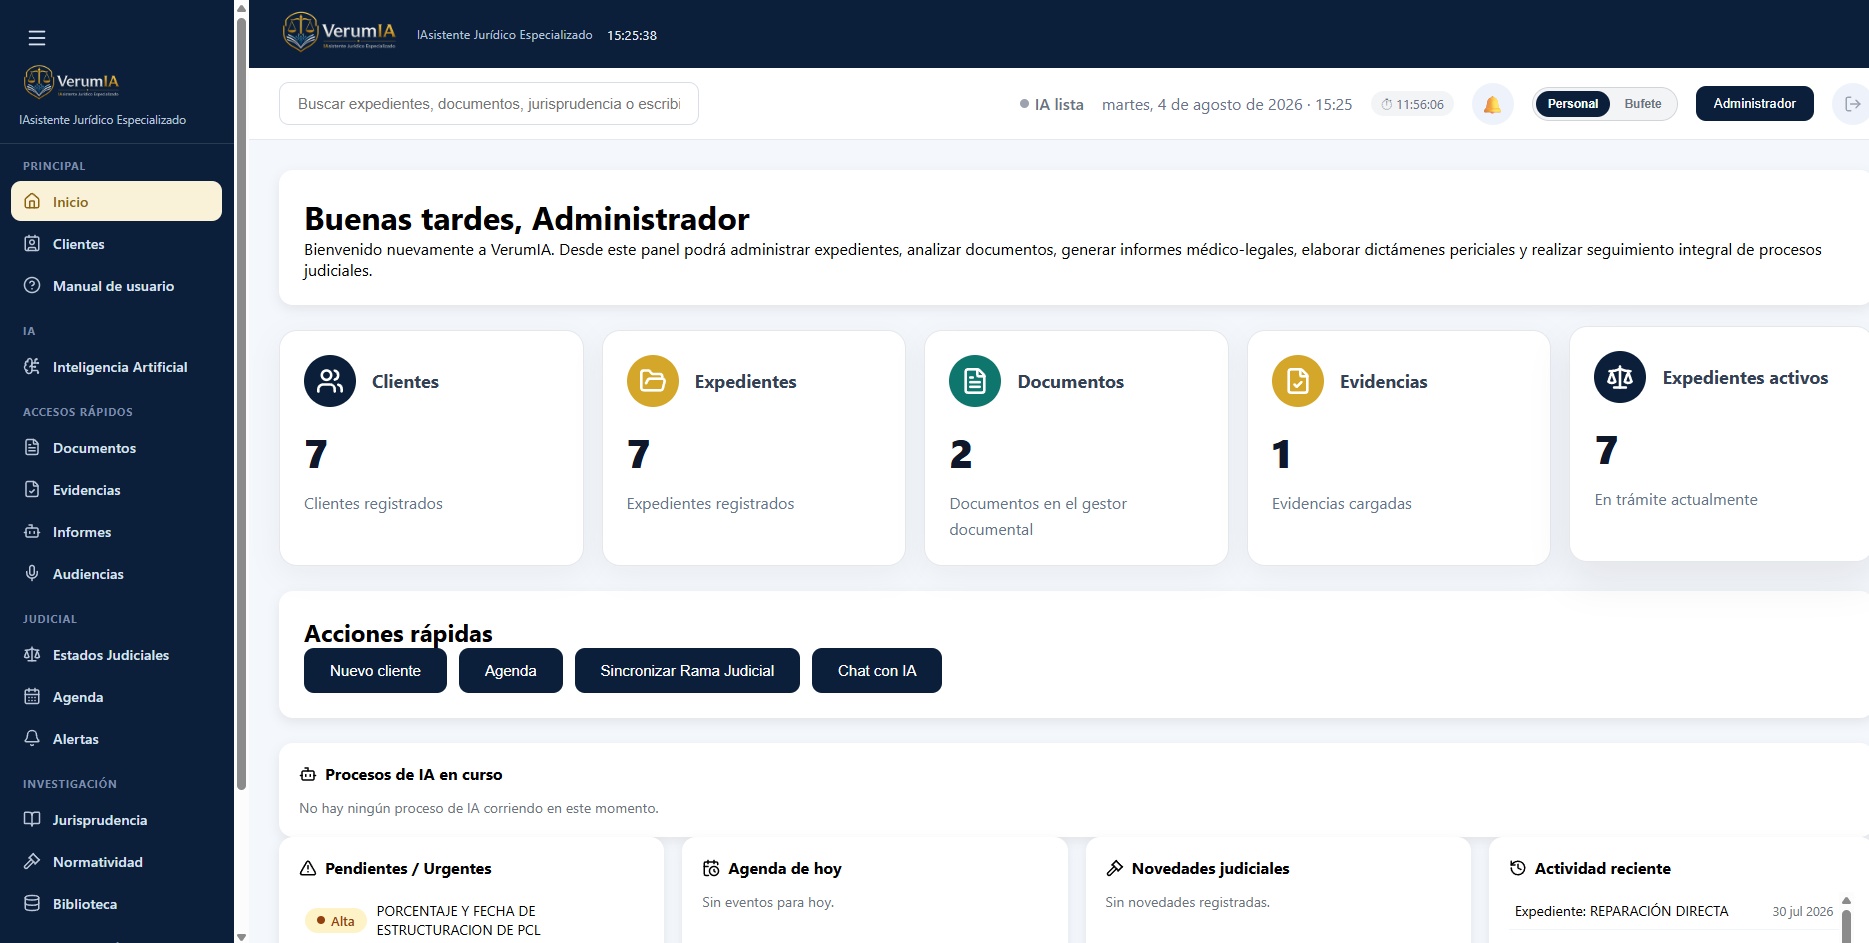
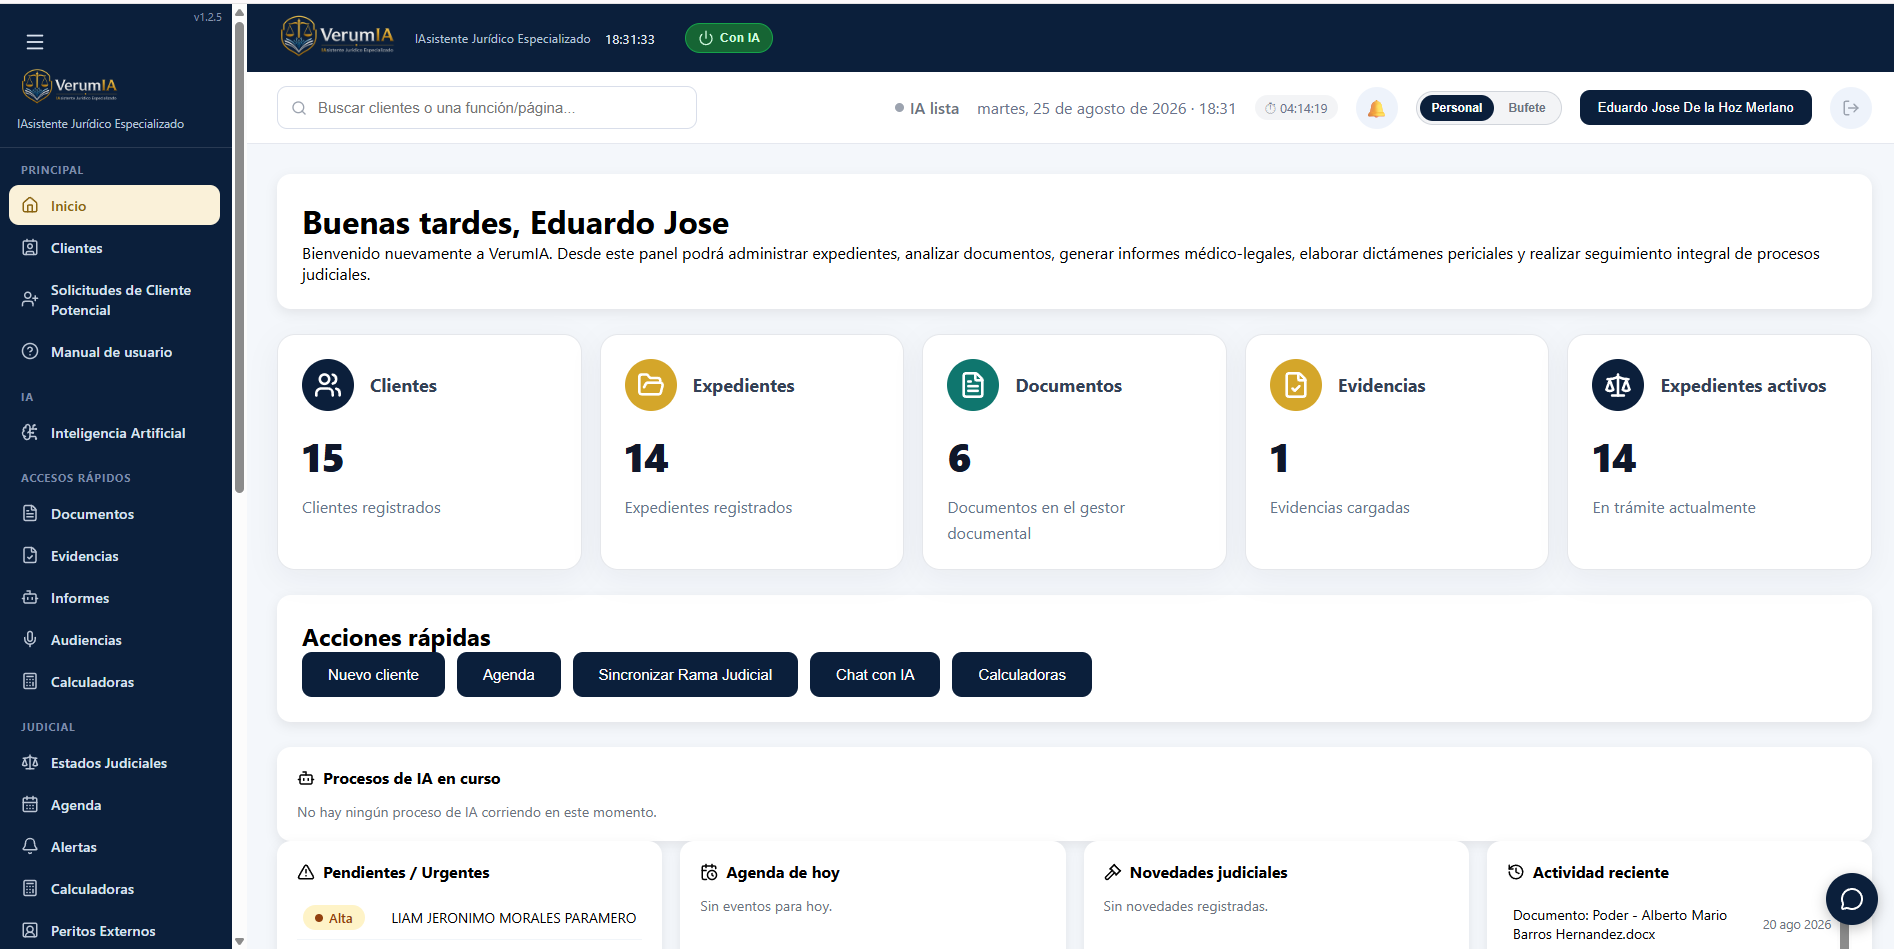
Actualizar VerumIA: 105 contratos, RUNT, calculadoras y manual
Sincroniza la pagina de VerumIA con las novedades de la version 1.2.5:
el catalogo de contratos paso de 64 a mas de 105 tipos con clausulas
modulares, se agrego el Formulario RUNT de traspaso de vehiculo, una
seccion nueva de Calculadoras juridicas (7 formulas deterministicas)
con captura real de la calculadora de Alimentos, una seccion del
manual de usuario integrado, y una lista de mas de 40 herramientas
adicionales del despacho agregadas en esa version. Tambien se
actualizo la captura de pantalla del panel de inicio a la version
actual del programa (v1.2.5).

diff --git a/verumia.html b/verumia.html
@@ -460,7 +460,7 @@
         <div class="tarjeta">
             <div class="tarjeta-icono"><svg><use href="#i-nota"></use></svg></div>
             <h3>Minutas y cobros</h3>
-            <p>64 modelos de contrato listos, más poderes, cuentas de cobro y cotizaciones — en Word y PDF, con QR de verificación.</p>
+            <p>Más de 105 modelos de contrato con cláusulas modulares editables (que puedes reordenar, quitar o traer del Banco de Cláusulas), además de poderes, cuentas de cobro, cotizaciones y paz y salvo — en Word y PDF, con QR de verificación. En compraventa de vehículo, el Formulario RUNT de traspaso se diligencia solo, tomando los datos ya cargados en el contrato.</p>
         </div>
         <div class="tarjeta">
             <div class="tarjeta-icono"><svg><use href="#i-enlace"></use></svg></div>
@@ -483,10 +483,99 @@
             <p>Roles diferenciados (abogado, perito, asistente, secretaria, contador…) y registro de auditoría de cada acción.</p>
         </div>
     </div>
+
+    <div class="seccion-titulo" style="margin-top:56px">
+        <div class="linea-oro"></div>
+        <h2>Y más de 40 herramientas adicionales</h2>
+        <p>Cada una con su propia pantalla en el menú, sin necesidad de inteligencia artificial.</p>
+    </div>
+    <div class="insignias" style="justify-content:center;max-width:980px;margin:0 auto">
+        <span class="insignia">Anticipos de cliente</span>
+        <span class="insignia">Cartera e informe mensual</span>
+        <span class="insignia">Aplazamientos de audiencia</span>
+        <span class="insignia">Citaciones a audiencia</span>
+        <span class="insignia">Banco de Cláusulas</span>
+        <span class="insignia">Categorías y etiquetas de documentos</span>
+        <span class="insignia">Cola de digitalización</span>
+        <span class="insignia">Consecutivos de numeración</span>
+        <span class="insignia">Retención documental</span>
+        <span class="insignia">Bitácora de contacto</span>
+        <span class="insignia">Conflictos de interés</span>
+        <span class="insignia">Consulta RUES</span>
+        <span class="insignia">Solicitudes de cliente potencial</span>
+        <span class="insignia">Cadena de custodia</span>
+        <span class="insignia">Eventos procesales</span>
+        <span class="insignia">Medidas cautelares</span>
+        <span class="insignia">Recursos judiciales</span>
+        <span class="insignia">Trámites administrativos</span>
+        <span class="insignia">Traspaso de expediente</span>
+        <span class="insignia">Vigencias legales</span>
+        <span class="insignia">Cuota alimentaria</span>
+        <span class="insignia">Régimen de visitas</span>
+        <span class="insignia">Sucesiones</span>
+        <span class="insignia">Gastos reembolsables</span>
+        <span class="insignia">Pagos post-sentencia</span>
+        <span class="insignia">Tarifas de actuación</span>
+        <span class="insignia">Directorio de juzgados</span>
+        <span class="insignia">Peritos externos</span>
+        <span class="insignia">Proveedores externos</span>
+        <span class="insignia">Plantillas de comunicación</span>
+        <span class="insignia">Plantillas de documento</span>
+        <span class="insignia">Guías de envío</span>
+        <span class="insignia">Registros de tiempo</span>
+        <span class="insignia">Sedes</span>
+        <span class="insignia">Tareas</span>
+        <span class="insignia">Encuestas de satisfacción</span>
+        <span class="insignia">Importador de Excel</span>
+        <span class="insignia">Ofertas de negociación</span>
+        <span class="insignia">Testigos</span>
+    </div>
+</div>
+</section>
+
+<section class="seccion">
+<div class="contenedor">
+    <div class="seccion-titulo">
+        <div class="linea-oro"></div>
+        <h2>Calculadoras jurídicas</h2>
+        <p>Siete fórmulas determinísticas específicas para Colombia — sin inteligencia artificial: el mismo dato de entrada siempre da el mismo resultado, con el detalle de cómo se llegó a la cifra.</p>
+    </div>
+
+    <div class="mockup-navegador">
+        <div class="mockup-barra"><span></span><span></span><span></span></div>
+        <img src="img/captura-verumia-calculadora-alimentos.png" alt="Calculadora de Alimentos de VerumIA: liquidación mes a mes indexada por IPC, con cuotas extra, mora e historial de abonos." loading="lazy">
+    </div>
+    <p style="text-align:center;color:var(--texto-suave);font-size:.9rem;margin-top:16px">La calculadora de Alimentos, liquidando mes a mes desde la fecha de inicio hasta la fecha de corte.</p>
+
+    <div class="insignias" style="justify-content:center;max-width:760px;margin:32px auto 0">
+        <span class="insignia">Alimentos</span>
+        <span class="insignia">Términos procesales</span>
+        <span class="insignia">Intereses</span>
+        <span class="insignia">IPC</span>
+        <span class="insignia">Laboral</span>
+        <span class="insignia">Penal</span>
+        <span class="insignia">Pretensiones</span>
+    </div>
 </div>
 </section>
 
 <section class="seccion seccion-clara">
+<div class="contenedor">
+    <div class="seccion-titulo">
+        <div class="linea-oro"></div>
+        <h2>Un manual para cada pantalla</h2>
+        <p>Disponible dentro del programa en cualquier momento: 32 capítulos con buscador propio, cubriendo cada botón y cada función, desde activar la licencia hasta la última herramienta del despacho.</p>
+    </div>
+
+    <div class="mockup-navegador">
+        <div class="mockup-barra"><span></span><span></span><span></span></div>
+        <img src="img/captura-verumia-manual-usuario.png" alt="Manual de usuario de VerumIA, con índice de capítulos y buscador, abierto en el capítulo 'Activar la licencia'." loading="lazy">
+    </div>
+    <p style="text-align:center;color:var(--texto-suave);font-size:.9rem;margin-top:16px">El manual de usuario, siempre a un clic de distancia dentro del programa.</p>
+</div>
+</section>
+
+<section class="seccion">
 <div class="contenedor">
     <div class="seccion-titulo">
         <div class="linea-oro"></div>
